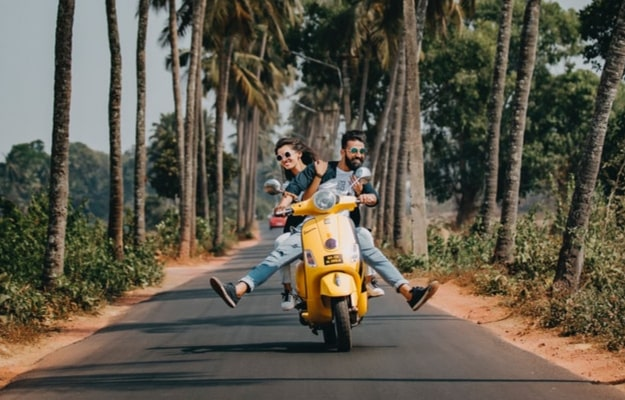
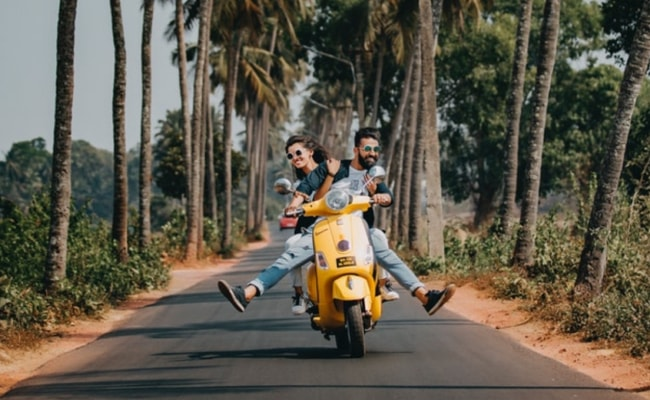
Lightening the page load
- removed hero animation from mobile

diff --git a/css/custom.css b/css/custom.css
@@ -433,106 +433,6 @@ html {scroll-behavior: smooth;}
     padding-right: 15px;
 }
 
-/* ------------------------------------------------------ */
-/* ------------------- HERO ANIMATION ------------------- */
-/* ------------------------------------------------------ */
-
-  /* setting watermark for hero - to be covered by left and right side on load  */
-  .hero-watermark {
-    font-size: 120px;
-    color: rgba(196, 196, 196, 0.6);
-    position: absolute;
-    left: 0; 
-    right: 0; 
-    margin-left: auto; 
-    margin-right: auto; 
-    width: 100%;
-    max-width: 310px;
-    top: 40%;
-}
-/* LEFT SIDE OF HERO  */
-.myleft-side {
-  -webkit-animation: slideIn 2s forwards;
-  -moz-animation: slideIn 2s forwards;
-  animation: slideIn 2s forwards;
-}
-@-webkit-keyframes slideIn {
-0% {
-  transform: translateY(-900px);
-}
-100% {
-  transform: translateY(0);
-}
-}
-@-moz-keyframes slideIn {
-0% {
-  transform: translateY(-900px);
-}
-100% {
-  transform: translateY(0);
-}
-}
-@keyframes slideIn {
-0% {
-  transform: translateY(-900px);
-}
-100% {
-  transform: translateY(0);
-}
-}
-
-/* RIGHT SIDE OF HERO */
-.myright-side {
-  -webkit-animation: slideInRight 2s forwards;
-  -moz-animation: slideInRight 2s forwards;
-  animation: slideInRight 2s forwards;
-}
-@-webkit-keyframes slideInRight {
-0% {
-  transform: translateY(900px);
-}
-100% {
-  transform: translateY(0);
-}
-}
-@-moz-keyframes slideInRight {
-0% {
-  transform: translateY(900px);
-}
-100% {
-  transform: translateY(0);
-}
-}
-@keyframes slideInRight {
-0% {
-  transform: translateY(900px);
-}
-100% {
-  transform: translateY(0);
-}
-}
-/* SIGNATURE FADE IN */
-#signature { 
-  animation-delay: 5s;
-  animation: fadeInAnimation 3.5s; 
-  animation-iteration-count: 1; 
-  animation-fill-mode: forwards; 
-} 
-@keyframes fadeInAnimation { 
-  0% { 
-      opacity: 0; 
-  } 
-  50% { 
-      opacity: 0; 
-  } 
-  100% { 
-      opacity: 1; 
-  } 
-} 
-
-/* ------------------------------------------------------ */
-/* ------------------- END HERO ANIMATION --------------- */
-/* ------------------------------------------------------ */
 
 
 /* ////////////////////////////     Responsive       ///////////////////////////// */
